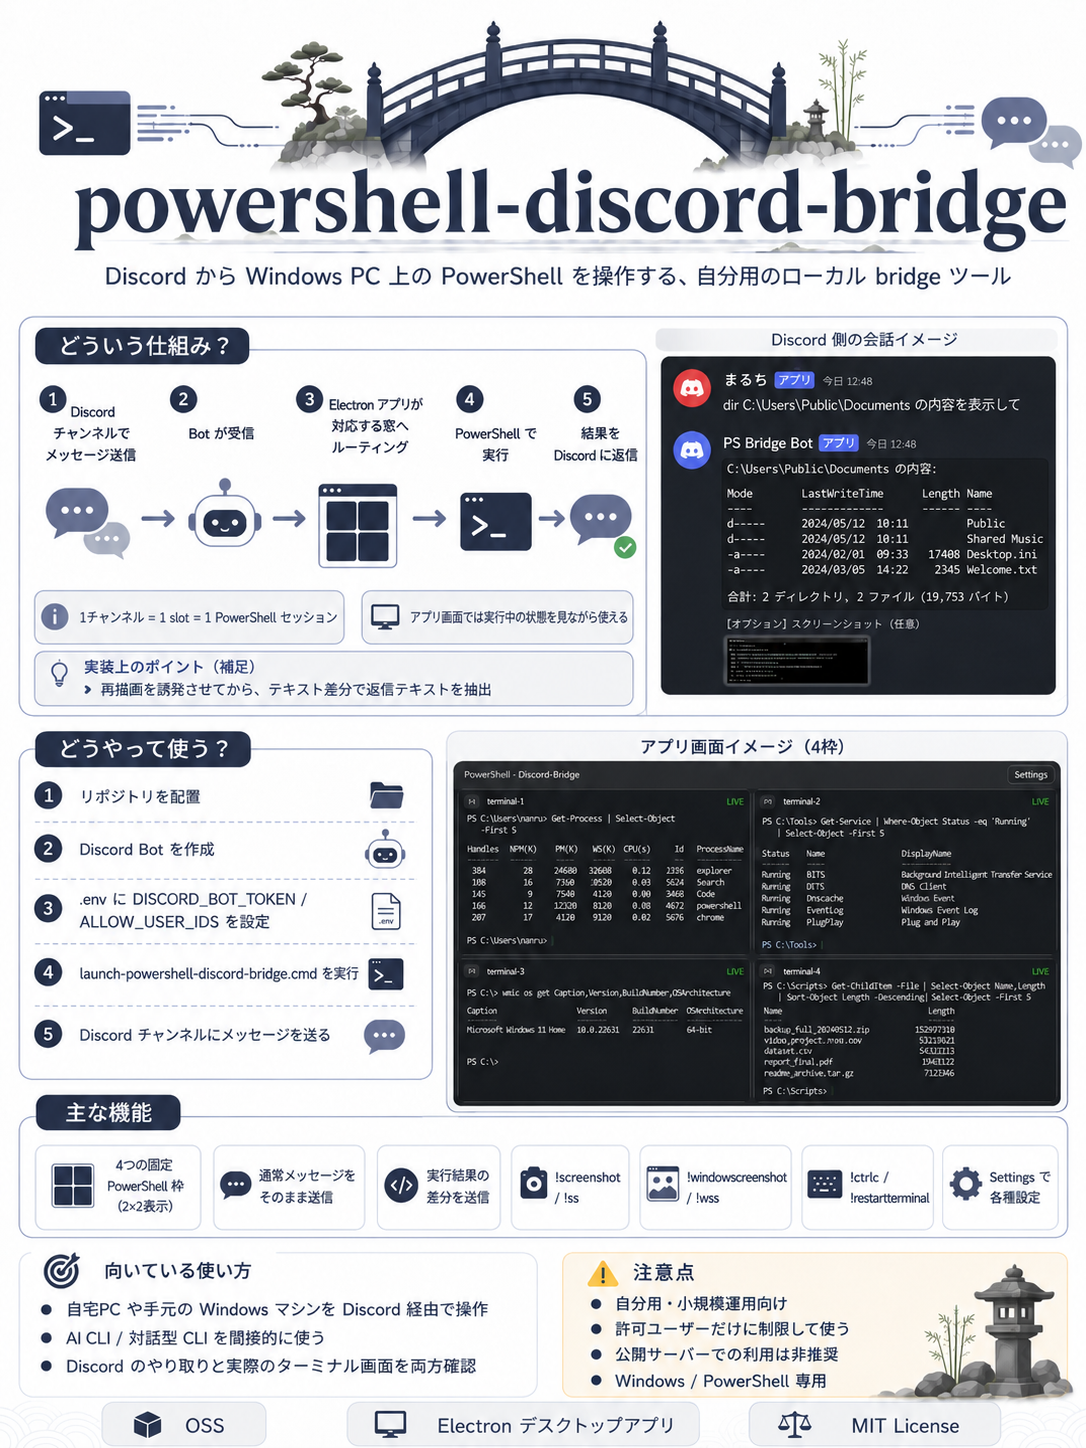
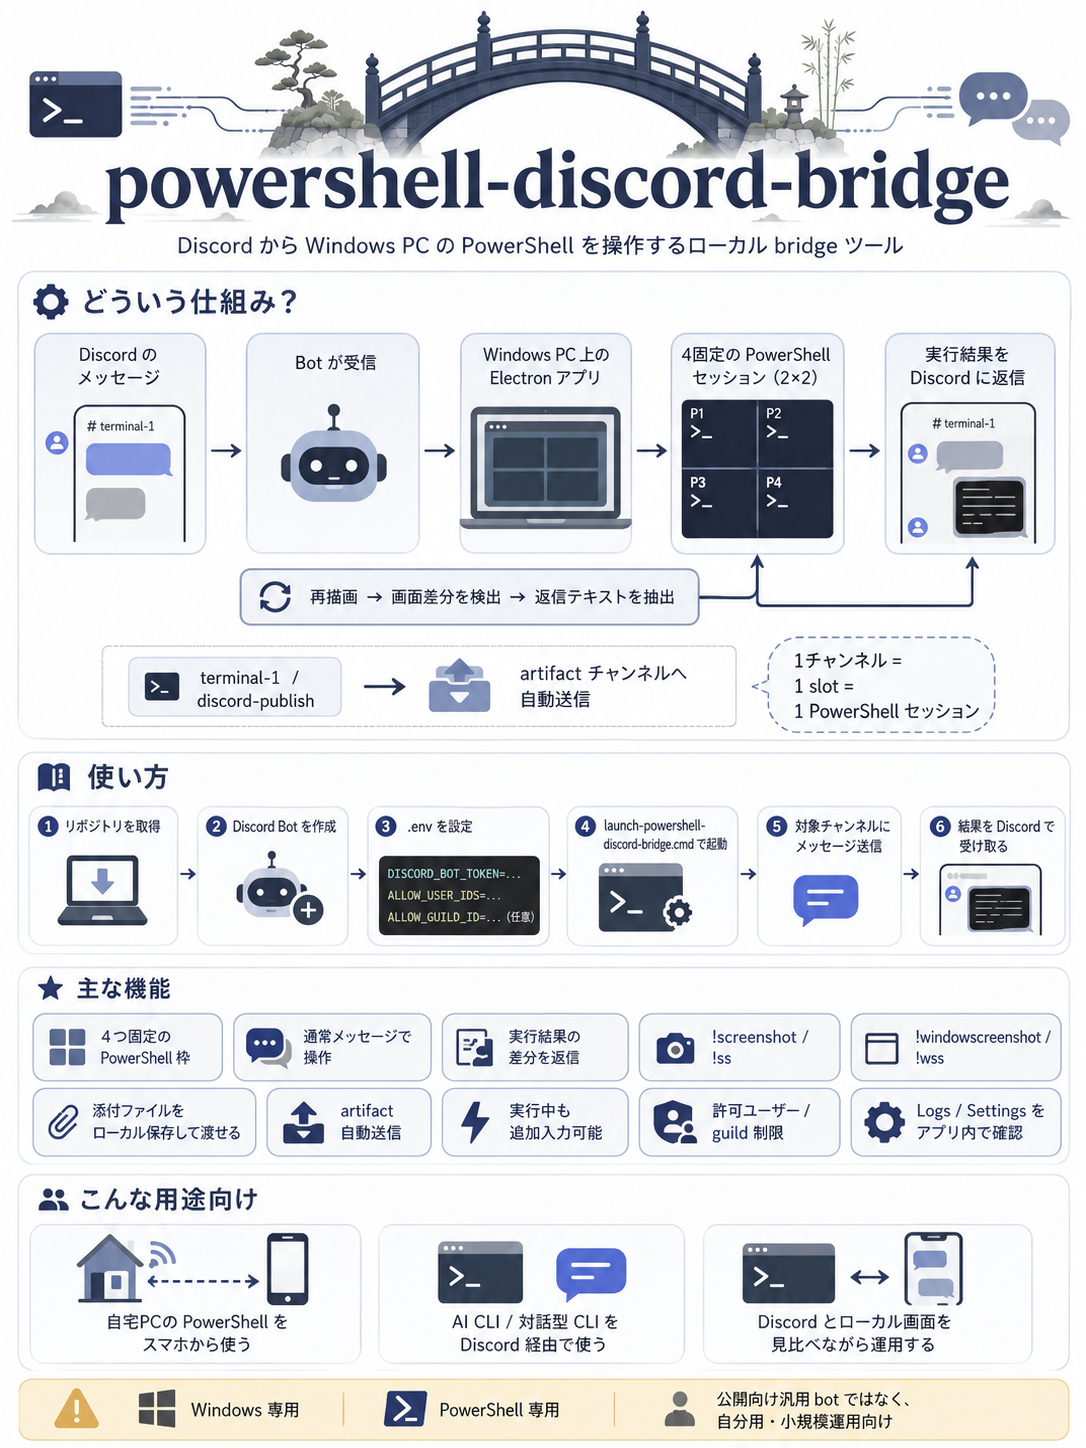
Simplify attachment prompts and refresh README image

diff --git a/src/main/bridge/discordAttachmentService.ts b/src/main/bridge/discordAttachmentService.ts
@@ -129,7 +129,7 @@ export class DiscordAttachmentService {
         count: savedFiles.length,
         totalBytes,
         files: savedFiles,
-        contextBlock: buildAttachmentContextBlock(directory, manifestPath, savedFiles)
+        contextBlock: buildAttachmentContextBlock(savedFiles)
       };
     } catch (error) {
       rmSync(directory, { recursive: true, force: true });
@@ -198,15 +198,10 @@ function sanitizeFilename(value: string): string {
 }
 
 function buildAttachmentContextBlock(
-  directory: string,
-  manifestPath: string,
   files: SavedDiscordAttachmentFile[]
 ): string {
   return [
     '# [DISCORD_ATTACHMENTS_BEGIN]',
-    `# directory: ${JSON.stringify(directory)}`,
-    `# manifest: ${JSON.stringify(manifestPath)}`,
-    `# count: ${files.length}`,
     ...files.map((file) => `# file[${file.index}]: ${JSON.stringify(file.absolutePath)}`),
     '# [DISCORD_ATTACHMENTS_END]'
   ].join('\n');

diff --git a/src/main/bridge/discordBridgeService.ts b/src/main/bridge/discordBridgeService.ts
@@ -1540,7 +1540,7 @@ function buildTerminalRequestContent(request: BridgeRequestRecord): string {
 }
 
 function buildAttachmentSavedReply(batch: SavedDiscordAttachmentBatch): string {
-  return `[attachments saved: ${batch.count} files]\n[attachment manifest: ${batch.manifestPath}]`;
+  return `[attachments saved: ${batch.count} files]`;
 }
 
 function toAttachmentLogEntry(batch: SavedDiscordAttachmentBatch | undefined): Pick<

diff --git a/README.md b/README.md
@@ -217,15 +217,12 @@ npm run setup:shortcuts
 
 ```text
 # [DISCORD_ATTACHMENTS_BEGIN]
-# directory: "C:\...\msg-123"
-# manifest: "C:\...\msg-123\attachments.json"
-# count: 2
 # file[1]: "C:\...\msg-123\001-report.csv"
 # file[2]: "C:\...\msg-123\002-image.png"
 # [DISCORD_ATTACHMENTS_END]
 ```
 
-このコメントブロックの後ろに元の本文がそのまま続きます。添付は **受信時点ですぐに保存** され、保存先は `slot-{n}\YYYY-MM-DD\msg-{messageId}` 単位で分かれます。添付は **1メッセージあたり最大 10 ファイル / 合計 10MB** までで、`!help` などの制御コマンドに添付した場合は拒否されます。本文なしで添付だけ送った場合も、保存済み manifest の場所を Discord に返しつつ、コメントブロックだけを terminal に渡します。
+このコメントブロックの後ろに元の本文がそのまま続きます。添付は **受信時点ですぐに保存** され、保存先は `slot-{n}\YYYY-MM-DD\msg-{messageId}` 単位で分かれます。添付は **1メッセージあたり最大 10 ファイル / 合計 10MB** までで、`!help` などの制御コマンドに添付した場合は拒否されます。本文なしで添付だけ送った場合も、**ファイルの絶対パスだけ** を載せたコメントブロックを terminal に渡します。`attachments.json` manifest は内部保存のままで、通常プロンプトには出しません。
 
 `discord-publish` 監視では、配下の通常ファイルを **再帰監視** し、新規作成だけでなく**更新保存**でも再送します。`~$` / `.tmp` / `.crdownload` / `.part` などの一時ファイルと 0 byte ファイルは無視し、同じ内容の連続イベントは内容ハッシュで重複送信を抑えます。成功時は **添付ファイルだけ** を送り、サイズが **10MB** を超えるファイルだけは artifact チャンネルへエラーメッセージを送ります。
 

diff --git a/CHANGELOG.md b/CHANGELOG.md
@@ -38,6 +38,7 @@
 - 各 terminal の working directory 表記を `Default working directory` に変更
 - 初期設定を `auto screenshot ON`、`code block`、`soft timeout 300s`、`hard timeout unlimited`、`100x50` に変更
 - デスクトップショートカットは通常起動時に親コンソールを表示しない hidden launcher を使うよう変更
+- Discord 添付ファイルを terminal に渡すコメントブロックは、manifest や count を含めずファイルパスのみの簡略形式に変更
 - bridge rows の最小値を `15` に変更
 
 ### Fixed